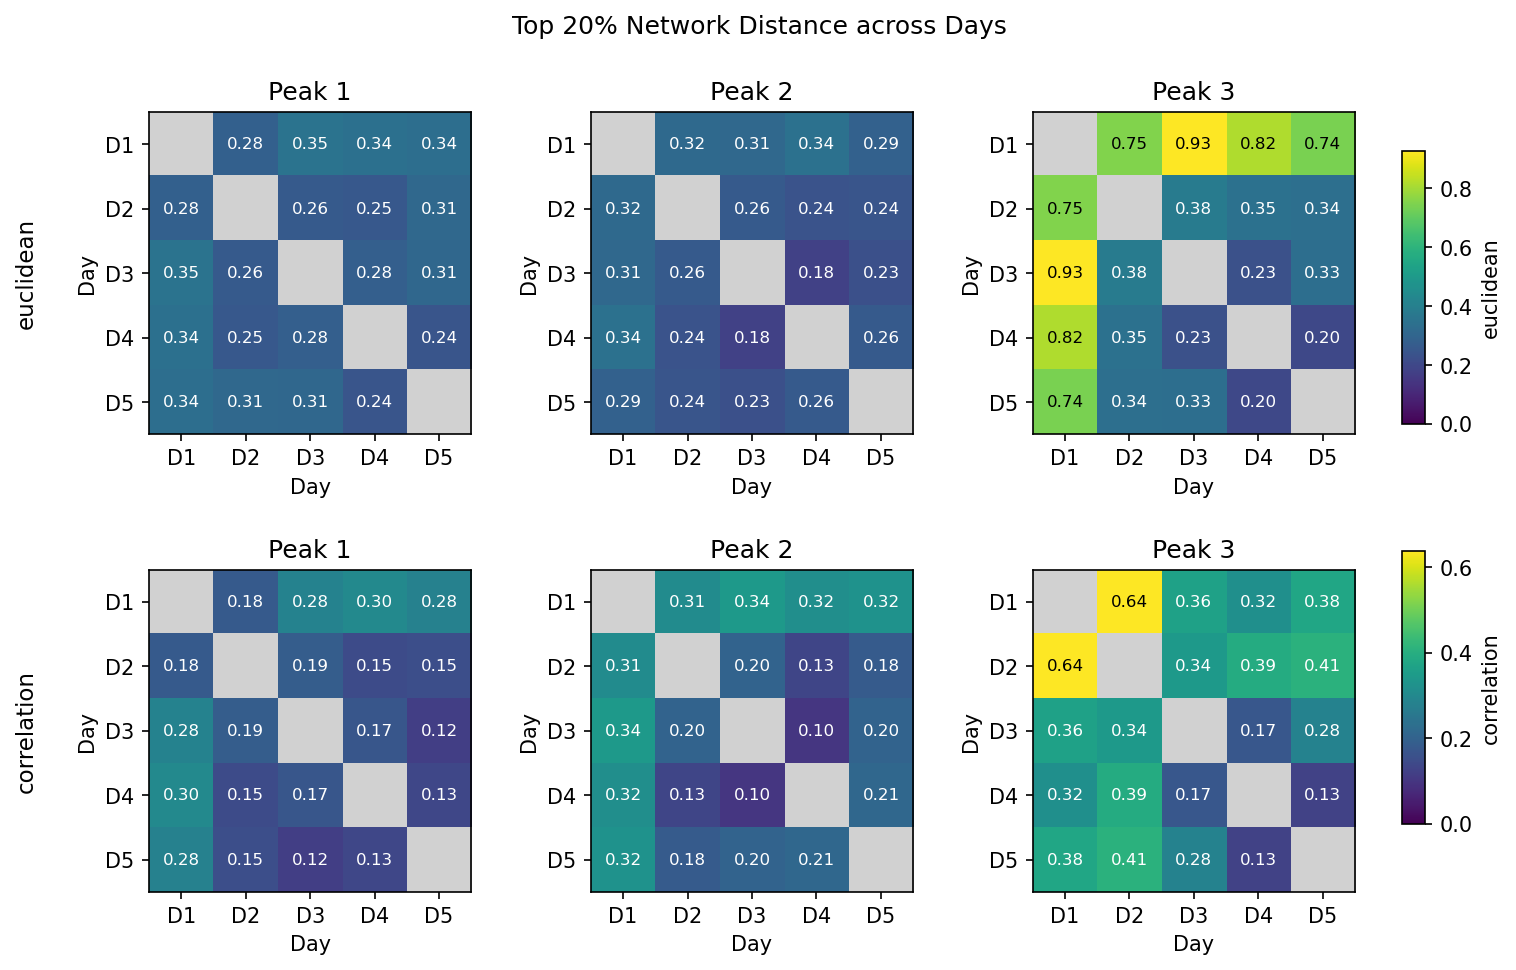
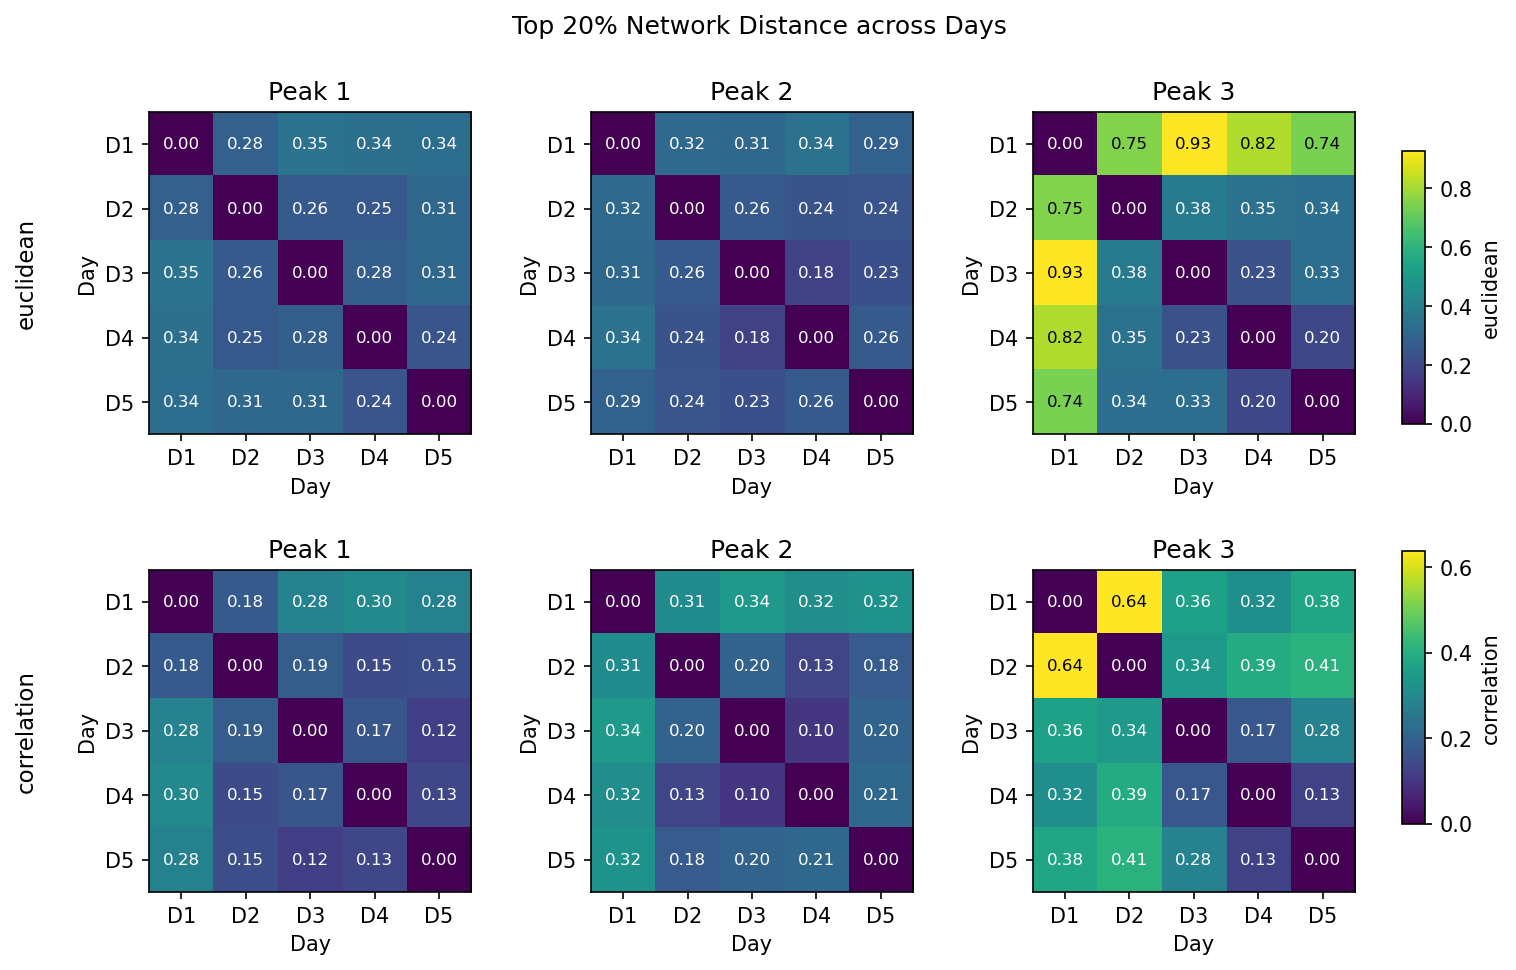
add diag to connect res figs

diff --git a/code/connect_sensorwide_figure.py b/code/connect_sensorwide_figure.py
@@ -766,6 +766,7 @@ def plot_active_pair_network_distance_matrices(
                 vals_i = get_peak_row(peak_rows, day_i, peak_i)["pair_vals"]
                 for col_j, day_j in enumerate(days):
                     if day_i == day_j:
+                        mat[row_i, col_j] = 0.0
                         continue
                     vals_j = get_peak_row(peak_rows, day_j, peak_i)["pair_vals"]
                     dist = edge_vector_distance(vals_i, vals_j, metric)
@@ -907,6 +908,13 @@ def subject_distance_summary(subjects, vector_map, days, metric, peak):
     for row_i, day_i in enumerate(days):
         for col_j, day_j in enumerate(days):
             if day_i == day_j:
+                n_diag = 0
+                for subject in subjects:
+                    if (subject, day_i, peak) in vector_map:
+                        n_diag += 1
+                mean_mat[row_i, col_j] = 0.0
+                sem_mat[row_i, col_j] = 0.0
+                n_mat[row_i, col_j] = int(n_diag)
                 continue
             vals = []
             for subject in subjects:
